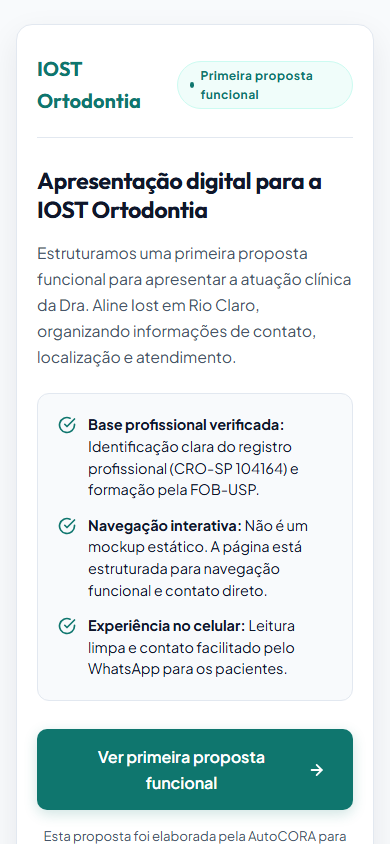
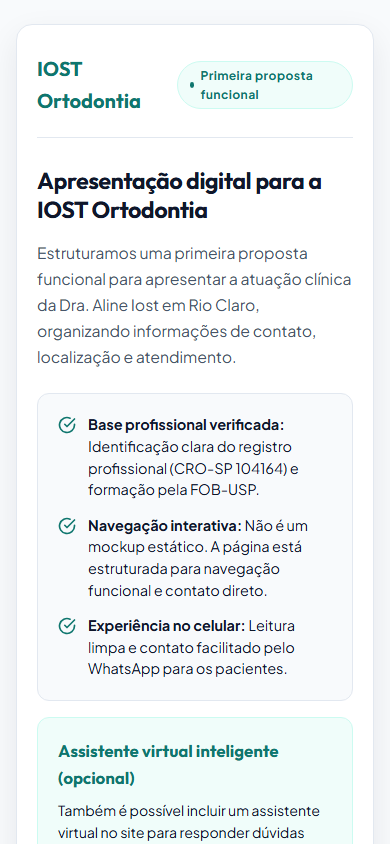
test: add automated QA test cases for assistant widget interaction and update baseline screenshots

Changed region(s): [[0.0923, 0.8626, 0.9231, 1.0]]

diff --git a/test_iost_qa.py b/test_iost_qa.py
@@ -29,6 +29,32 @@ async def test_page():
         hero_ctas = await page.query_selector_all(".hero-cta-wrap .btn, .hero-section .btn")
         print(f"[Desktop] Hero CTA count: {len(hero_ctas)} (Expected: 1) -> {'PASS' if len(hero_ctas) == 1 else 'FAIL'}")
 
+        # Test Assistant Widget in Shadow DOM
+        assistant_open_test = await page.evaluate("""
+            () => {
+                const root = document.getElementById('iost-assistant-root');
+                if (!root || !root.shadowRoot) return false;
+                const launcher = root.shadowRoot.getElementById('btn-launcher');
+                const panel = root.shadowRoot.getElementById('panel-assistant');
+                if (!launcher || !panel) return false;
+                launcher.click();
+                return panel.dataset.open === 'true';
+            }
+        """)
+        print(f"[Desktop] Assistant widget open: {'PASS' if assistant_open_test else 'FAIL'}")
+        await page.screenshot(path="qa_iost_desktop_assistant_open.png")
+
+        # Test Escape key closes assistant
+        await page.keyboard.press("Escape")
+        assistant_closed_test = await page.evaluate("""
+            () => {
+                const root = document.getElementById('iost-assistant-root');
+                const panel = root.shadowRoot.getElementById('panel-assistant');
+                return panel.dataset.open === 'false';
+            }
+        """)
+        print(f"[Desktop] Assistant widget Escape close: {'PASS' if assistant_closed_test else 'FAIL'}")
+
         # Screenshot Desktop
         await page.screenshot(path="qa_iost_desktop_1440x900.png", full_page=True)
         print("Captured qa_iost_desktop_1440x900.png")
@@ -46,6 +72,28 @@ async def test_page():
         await page.wait_for_timeout(500)
         has_h_scroll_mob = await page.evaluate("() => document.documentElement.scrollWidth > window.innerWidth")
         print(f"[Mobile 390x844] Horizontal overflow: {'FAIL' if has_h_scroll_mob else 'PASS'}")
+        
+        # Test Assistant Widget on mobile
+        mob_assistant_open = await page.evaluate("""
+            () => {
+                const root = document.getElementById('iost-assistant-root');
+                const launcher = root.shadowRoot.getElementById('btn-launcher');
+                const panel = root.shadowRoot.getElementById('panel-assistant');
+                launcher.click();
+                return panel.dataset.open === 'true';
+            }
+        """)
+        print(f"[Mobile] Assistant widget open: {'PASS' if mob_assistant_open else 'FAIL'}")
+        await page.screenshot(path="qa_iost_mobile_assistant_open.png")
+        
+        # Close on mobile
+        await page.evaluate("""
+            () => {
+                const root = document.getElementById('iost-assistant-root');
+                const closeBtn = root.shadowRoot.getElementById('btn-close');
+                closeBtn.click();
+            }
+        """)
         await page.screenshot(path="qa_iost_mobile_390x844.png", full_page=True)
         print("Captured qa_iost_mobile_390x844.png")
 
